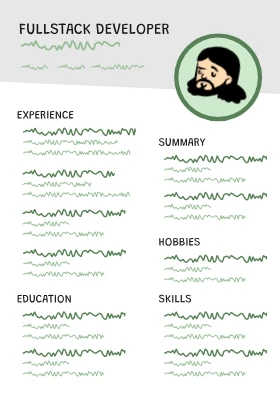
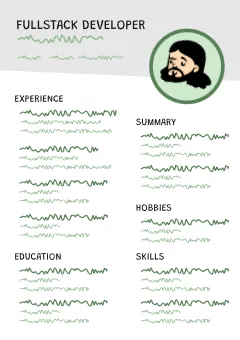
perf (images): compressed and optimized images

diff --git a/src/app/navbar/navbar.component.html b/src/app/navbar/navbar.component.html
@@ -24,11 +24,13 @@
     ><h2>{{ 'navbar.about' | transloco }}</h2>
     <div class="img-container">
       <img
-        [src]="
+        [ngSrc]="
           themeService.isDarkMode
-            ? 'photos/avatar-neutral-dark.png'
-            : 'photos/avatar-neutral.png'
+            ? 'photos/avatar-neutral-dark.webp'
+            : 'photos/avatar-neutral.webp'
         "
+        width="112"
+        height="98"
         [attr.alt]="'navbar.avatarAlt' | transloco" />
     </div>
   </a>
@@ -41,7 +43,9 @@
     ><h2>{{ 'navbar.projects' | transloco }}</h2>
     <div class="img-container">
       <img
-        src="https://tgolpzoiiupkeshlgcpq.supabase.co/storage/v1/object/public/portfolio-project/illustrations/projects.svg"
+        ngSrc="https://tgolpzoiiupkeshlgcpq.supabase.co/storage/v1/object/public/portfolio-project/illustrations/projects.svg"
+        width="79"
+        height="48"
         [attr.alt]="'navbar.projectsIllustrationAlt' | transloco" />
     </div>
   </a>
@@ -54,7 +58,9 @@
     ><h2>{{ 'navbar.skills' | transloco }}</h2>
     <div class="img-container">
       <img
-        src="https://tgolpzoiiupkeshlgcpq.supabase.co/storage/v1/object/public/portfolio-project/illustrations/skills.svg"
+        ngSrc="https://tgolpzoiiupkeshlgcpq.supabase.co/storage/v1/object/public/portfolio-project/illustrations/skills.svg"
+        width="59"
+        height="59"
         [attr.alt]="'navbar.skillsIllustrationAlt' | transloco" />
     </div>
   </a>
@@ -67,7 +73,9 @@
     ><h2>{{ 'navbar.experience' | transloco }}</h2>
     <div class="img-container">
       <img
-        src="https://tgolpzoiiupkeshlgcpq.supabase.co/storage/v1/object/public/portfolio-project/illustrations/experience.svg"
+        ngSrc="https://tgolpzoiiupkeshlgcpq.supabase.co/storage/v1/object/public/portfolio-project/illustrations/experience.svg"
+        width="48"
+        height="48"
         [attr.alt]="'navbar.experienceIllustrationAlt' | transloco" />
     </div>
   </a>

diff --git a/src/index.html b/src/index.html
@@ -14,6 +14,12 @@
     <link
       href="https://fonts.googleapis.com/css2?family=Material+Symbols+Outlined:opsz,wght,FILL,GRAD@24,400,0..1,0&amp;icon_names=add,arrow_drop_down,call_made,check,check_circle,chevron_left,chevron_right,close,crop_free,dark_mode,delete,favorite,light_mode,link,lock,menu,release_alert,remove,school,search,settings,trending_down,trending_up&amp;display=block"
       rel="stylesheet" />
+    <!-- Home page LCP image: discovered here instead of after main-*.js has rendered app-image -->
+    <link
+      rel="preload"
+      as="image"
+      href="photos/avatar-bust-arms-crossed.webp"
+      fetchpriority="high" />
     <link rel="manifest" href="manifest.webmanifest" />
     <meta name="theme-color" content="#1976d2" />
   </head>

diff --git a/src/app/navbar/navbar.component.ts b/src/app/navbar/navbar.component.ts
@@ -1,4 +1,4 @@
-import { NgTemplateOutlet } from '@angular/common';
+import { NgOptimizedImage, NgTemplateOutlet } from '@angular/common';
 import { TranslocoPipe } from '@jsverse/transloco';
 import {
   Component,
@@ -31,6 +31,7 @@ import { LanguageSelectorComponent } from './language-selector/language-selector
     ThemeSelectorComponent,
     LanguageSelectorComponent,
     NgTemplateOutlet,
+    NgOptimizedImage,
     TranslocoPipe,
   ],
   templateUrl: './navbar.component.html',

diff --git a/src/app/home/map/map.component.ts b/src/app/home/map/map.component.ts
@@ -1,3 +1,4 @@
+import { NgOptimizedImage } from '@angular/common';
 import {
   AfterViewInit,
   ChangeDetectorRef,
@@ -13,7 +14,7 @@ import { ActionButtonComponent } from '../action-button/action-button.component'
 
 @Component({
   selector: 'app-map',
-  imports: [ActionButtonComponent],
+  imports: [ActionButtonComponent, NgOptimizedImage],
   templateUrl: './map.component.html',
   styleUrl: './map.component.scss',
 })

diff --git a/src/app/navbar/navbar.component.scss b/src/app/navbar/navbar.component.scss
@@ -45,7 +45,8 @@ $top-padding: 40px;
     position: absolute;
     top: 0;
     left: 0;
-    overflow: hidden;
+    // clip, not hidden: a scroll container would make Chrome load the closed menu's lazy images ahead of time
+    overflow: clip;
     height: 0;
     display: flex;
     align-items: center;
@@ -157,6 +158,7 @@ a {
     img {
       object-fit: contain;
       height: 100%;
+      width: auto;
     }
   }
 

diff --git a/src/app/home/image/image.component.ts b/src/app/home/image/image.component.ts
@@ -1,9 +1,10 @@
+import { NgOptimizedImage } from '@angular/common';
 import { Component } from '@angular/core';
 import { GridItemDirective } from 'src/app/shared/grid/grid-item.directive';
 
 @Component({
   selector: 'app-image',
-  imports: [],
+  imports: [NgOptimizedImage],
   templateUrl: './image.component.html',
   styleUrl: './image.component.scss',
 })

diff --git a/src/app/home/image/image.component.html b/src/app/home/image/image.component.html
@@ -139,4 +139,10 @@
     stroke-linecap="round" />
 </svg>
 
-<img [src]="'photos/avatar-bust-arms-crossed.png'" alt="" />
+<!-- LCP image on mobile: priority, and preloaded in index.html -->
+<img
+  ngSrc="photos/avatar-bust-arms-crossed.webp"
+  width="200"
+  height="276"
+  priority
+  alt="" />

diff --git a/src/app/home/resume/resume.component.html b/src/app/home/resume/resume.component.html
@@ -100,8 +100,8 @@
 <button type="button" class="illustration-container" (click)="openResume()">
   <img
     ngSrc="illustrations/resume-preview.webp"
-    width="280"
-    height="396"
+    width="240"
+    height="340"
     [alt]="'home.resume.open' | transloco" />
 </button>
 

diff --git a/src/app/home/map/map.component.html b/src/app/home/map/map.component.html
@@ -19,4 +19,9 @@
 }
 
 <div class="rayon"></div>
-<img class="img-marker" src="photos/avatar-neutral.png" alt="" />
+<img
+  class="img-marker"
+  ngSrc="photos/avatar-neutral.webp"
+  width="112"
+  height="98"
+  alt="" />

diff --git a/src/app/home/image/image.component.scss b/src/app/home/image/image.component.scss
@@ -3,6 +3,7 @@
 img {
   position: absolute;
   width: 100px;
+  height: auto;
   right: 0;
   bottom: 0;
   object-fit: contain;
